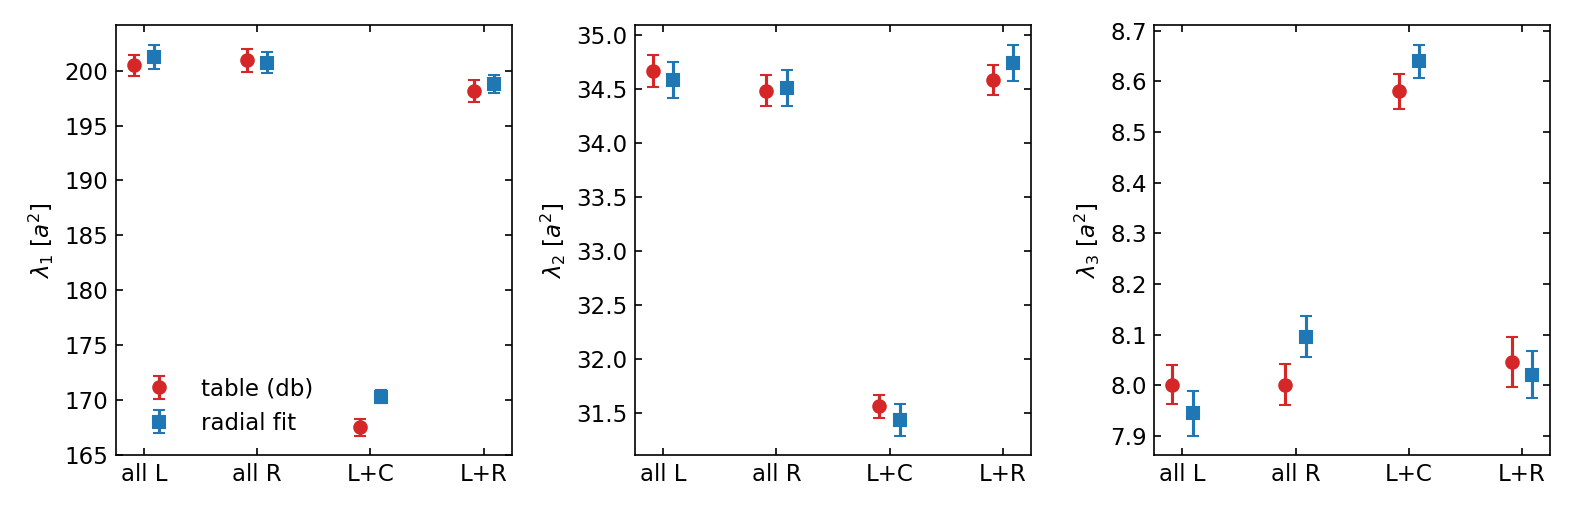
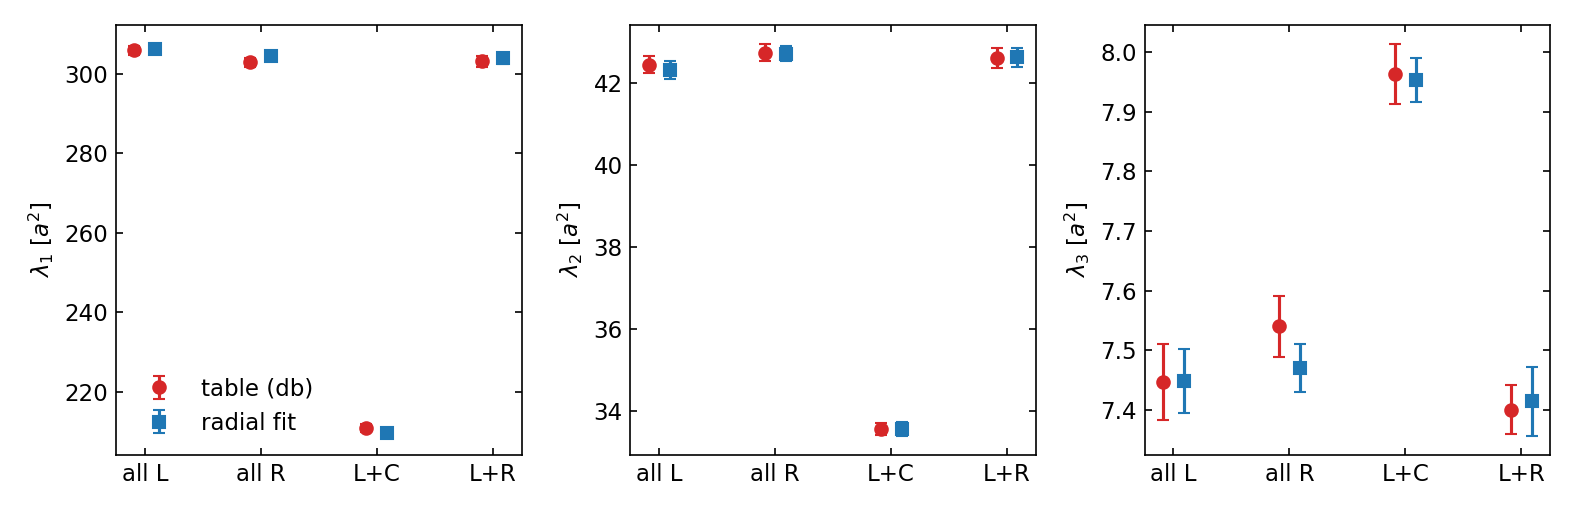
runs/gyration_db rerun with k = 2K (all-helix N = 40: lambda_1 306 vs 200 before; db == fit within 1 sigma; contacts 0.01 per frame); gyration_db.py --md-root option; t45 jscan generator: ESS override and half-J steps
Claude-Session: https://claude.ai/code/session_01YCFDQMi6G2e7WqBRodR5rt

diff --git a/runs/gyration_db/gyration_db.py b/runs/gyration_db/gyration_db.py
@@ -7,7 +7,14 @@ independent runs.  Reported per pattern for the tabulated potential (db) and the
 lambda_3/lambda_1, the run length in integrated autocorrelation times of Rg^2, and the
 acceptance of pivot and twist moves.  The allL / allR pair is the mirror check of the table.
 
-  ~/.conda/envs/sim_analysis/bin/python runs/gyration_db/gyration_db.py [--fig]
+--md-root <dir> (user 2026-09-23: "compare to monomer resolved value"): the matching
+monomer-resolved LAMMPS runs (grant repo, prelim/runs/cg_gyration_t45_grd_runs:
+cgblk_<40-block pattern>_m7_theta45_phi120_K20_grd, 280 monomers, 201 frames over 2e7 steps) are
+read, the gyration tensor of their 40 block CENTRES OF MASS (the points the MC beads represent)
+is evaluated on the second half with 8-block errors, and reported as "MD" rows with z-scores of
+db and fit against it.
+
+  ~/.conda/envs/sim_analysis/bin/python runs/gyration_db/gyration_db.py [--fig] [--md-root DIR]
 """
 import glob
 import os
@@ -19,6 +26,48 @@ import numpy as np
 os.chdir(os.path.dirname(os.path.abspath(__file__)))
 PATTERNS = ["allL", "allR", "halfL_C", "halfL_R"]
 POTS = ["db", "fit"]
+SEQ = {"allL": "L" * 40, "allR": "R" * 40, "halfL_C": "L" * 20 + "C" * 20, "halfL_R": "L" * 20 + "R" * 20}
+M = 7
+
+
+def md_frames(path):
+    """Unwrapped (N, 3) coordinates per LAMMPS dump frame (image flags applied)."""
+    for blk in open(path).read().split("ITEM: TIMESTEP")[1:]:
+        L = blk.splitlines()
+        try:
+            i = next(k for k, l in enumerate(L) if l.startswith("ITEM: ATOMS"))
+            b = next(k for k, l in enumerate(L) if l.startswith("ITEM: BOX BOUNDS"))
+        except StopIteration:
+            continue
+        box = np.array([float(L[b + 1 + k].split()[1]) - float(L[b + 1 + k].split()[0]) for k in range(3)])
+        cols = L[i].split()[2:]
+        ci = {c: j for j, c in enumerate(cols)}
+        rows = [l.split() for l in L[i + 1:] if len(l.split()) == len(cols)]
+        if not rows:
+            continue
+        rows.sort(key=lambda r: int(r[ci["id"]]))
+        xyz = np.array([[float(r[ci["x"]]), float(r[ci["y"]]), float(r[ci["z"]])] for r in rows])
+        img = np.array([[int(r[ci["ix"]]), int(r[ci["iy"]]), int(r[ci["iz"]])] for r in rows])
+        yield xyz + img * box
+
+
+def md_reference(root, theta0=45):
+    """{pattern: dict(lam, err, nfr)} from the block centres of mass of the fine runs."""
+    out = {}
+    for pat, seq in SEQ.items():
+        tag = f"cgblk_{seq}_m7_theta{theta0}_phi120_K20_grd"
+        d = os.path.join(root, tag)
+        if not os.path.isfile(os.path.join(d, f"data.{tag}.final")):
+            continue
+        P = np.array([xyz.reshape(-1, M, 3).mean(1) for xyz in md_frames(os.path.join(d, f"traj.{tag}.lammpstrj"))])
+        P = P[len(P) // 2:]
+        c = P - P.mean(1, keepdims=True)
+        T = np.einsum("fia,fib->fab", c, c) / P.shape[1]
+        lam = np.sort(np.linalg.eigvalsh(T), axis=1)[:, ::-1]
+        nb = 8
+        blk = lam[: len(lam) // nb * nb].reshape(nb, -1, 3).mean(1)
+        out[pat] = dict(lam=lam.mean(0), err=blk.std(0, ddof=1) / np.sqrt(nb), n=len(lam))
+    return out
 
 
 def read_frames(f):
@@ -115,6 +164,25 @@ def collect():
     return res
 
 
+def report_md(res, md):
+    print(f"\nmonomer-resolved reference (block centres of mass, second half, 8-block errors):")
+    print(f"{'pattern':>8} {'frames':>6} {'lam1':>8} {'+-':>5} {'lam2':>7} {'+-':>5} {'lam3':>7} {'+-':>5} {'Rg2':>7} {'l2/l1':>6} {'l3/l1':>6} | z(db - MD) | z(fit - MD)")
+    for pat in PATTERNS:
+        if pat not in md:
+            continue
+        m = md[pat]; lam, err = m["lam"], m["err"]
+        zs = []
+        for pot in POTS:
+            if (pat, pot) in res:
+                r = res[(pat, pot)]
+                z = (r["lam"] - lam) / np.sqrt(r["err"] ** 2 + err ** 2)
+                zs.append(" ".join(f"{v:+5.1f}" for v in z))
+            else:
+                zs.append("   -   ")
+        print(f"{pat:>8} {m['n']:>6} {lam[0]:>8.2f} {err[0]:>5.2f} {lam[1]:>7.2f} {err[1]:>5.2f} {lam[2]:>7.2f} {err[2]:>5.2f} "
+              f"{lam.sum():>7.2f} {lam[1] / lam[0]:>6.3f} {lam[2] / lam[0]:>6.3f} | {zs[0]} | {zs[1]}")
+
+
 def report(res):
     print(f"{'pattern':>8} {'pot':>4} {'seeds':>5} {'lam1':>8} {'+-':>5} {'lam2':>7} {'+-':>5} {'lam3':>7} {'+-':>5} "
           f"{'Rg2':>7} {'l2/l1':>6} {'l3/l1':>6} {'<E_nb>':>7} {'HH<3a':>6} {'HH<2a':>6} {'run/tau':>7} {'acc_piv':>7} {'acc_tw':>6}")
@@ -139,7 +207,7 @@ def report(res):
         print(f"\nmirror check allL vs allR (db): z = {z[0]:+.1f} {z[1]:+.1f} {z[2]:+.1f}")
 
 
-def figure(res):
+def figure(res, md=None):
     import matplotlib
     matplotlib.use("Agg")
     import matplotlib.pyplot as plt
@@ -147,6 +215,11 @@ def figure(res):
                          "xtick.top": True, "ytick.right": True})
     fig, ax = plt.subplots(1, 3, figsize=(10.5, 3.4), sharex=True)
     x = np.arange(len(PATTERNS))
+    if md:
+        for i in range(3):
+            y = [md[p]["lam"][i] if p in md else np.nan for p in PATTERNS]
+            e = [md[p]["err"][i] if p in md else np.nan for p in PATTERNS]
+            ax[i].errorbar(x, y, e, fmt="D", ms=6, capsize=3, color="k", label="monomer-resolved (block COMs)")
     for k, pot in enumerate(POTS):
         for i in range(3):
             y = [res[(p, pot)]["lam"][i] if (p, pot) in res else np.nan for p in PATTERNS]
@@ -167,5 +240,9 @@ if __name__ == "__main__":
     if not res:
         print("no finished runs"); sys.exit(1)
     report(res)
+    md = None
+    if "--md-root" in sys.argv:
+        md = md_reference(sys.argv[sys.argv.index("--md-root") + 1])
+        report_md(res, md)
     if "--fig" in sys.argv:
-        figure(res)
+        figure(res, md)
